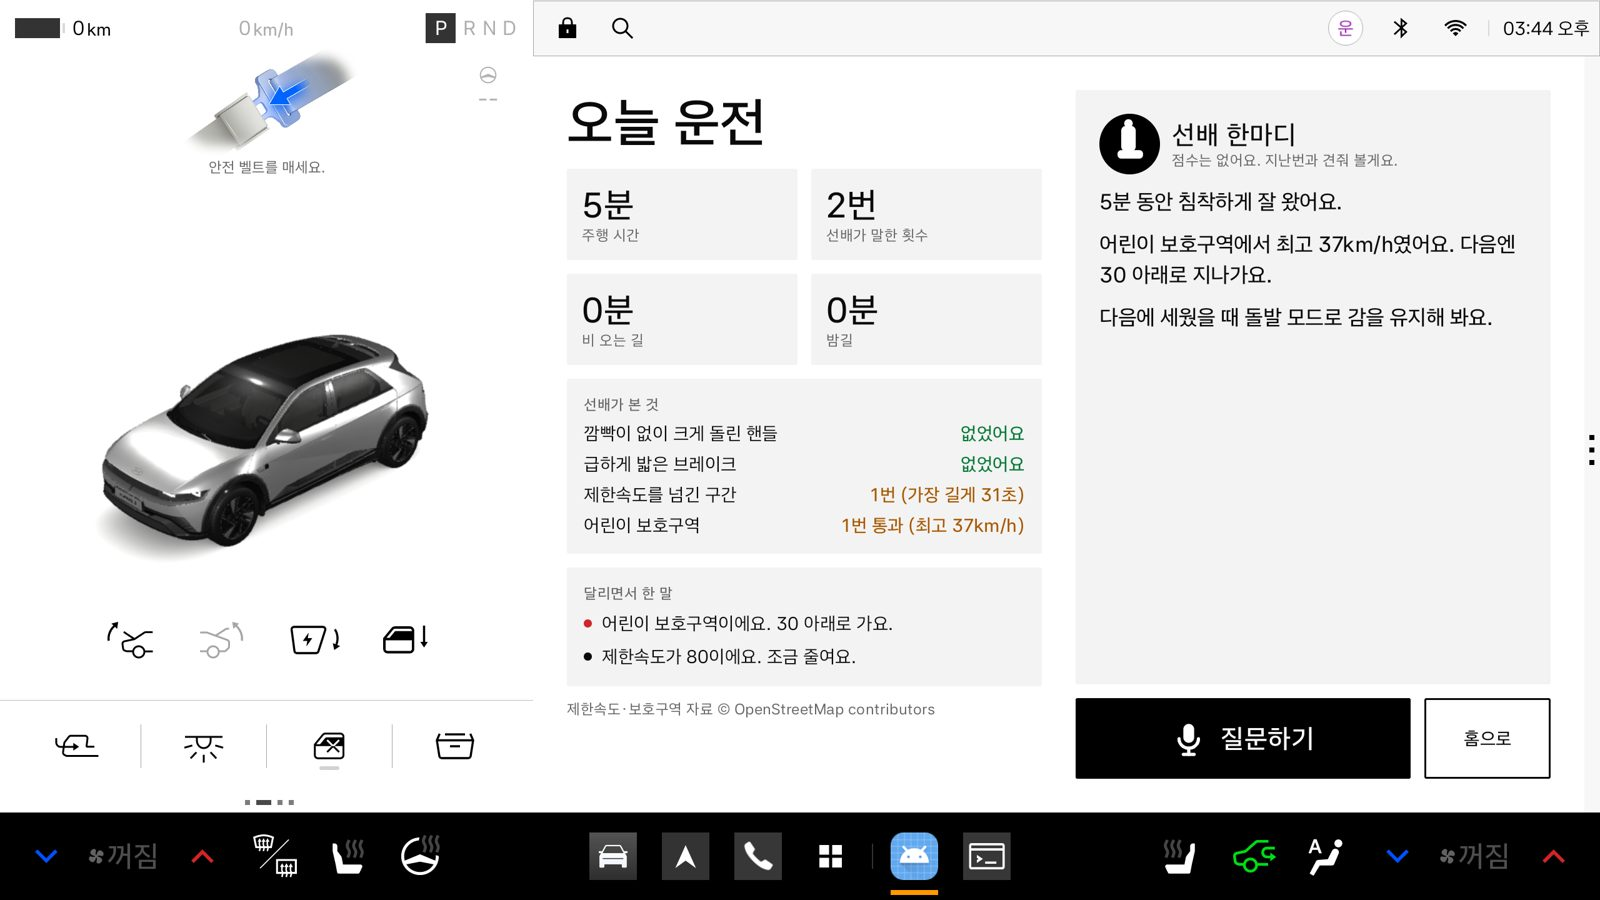
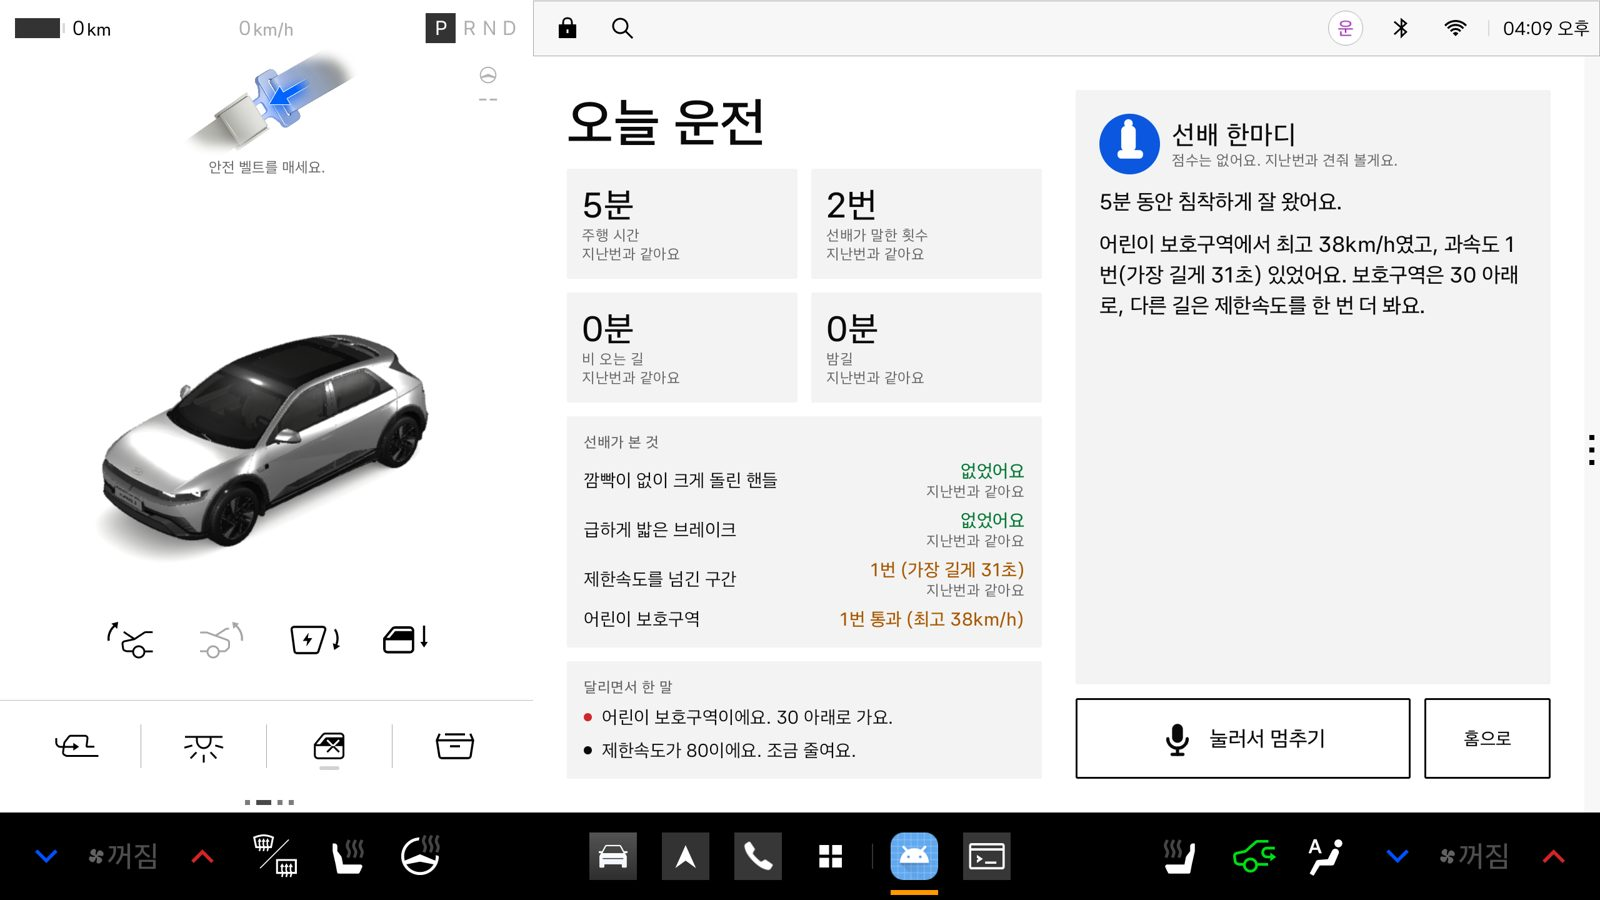
통합: 키 없는 release(db28383)로 시연 경로 재생, 규칙 기반 총평이 과속·보호구역을 같이 말함 확인(캡처 갱신), 보호구역 최고 속도 72 튐 1회 기록

diff --git a/docs/STATUS.md b/docs/STATUS.md
@@ -1,6 +1,6 @@
 # 진행 상황
 
-> **최종 빌드 (2026-11-13 16:05, dev-integration)**: 소스 기준 이 커밋(core 8773c3a 리뷰 과속 문장, ui 5db0efc 리뷰 과속·보호구역 줄과 OSM 출처, b5ceb33 K11·K12 연결 이후). `./gradlew :core:test` 91개·`:app:testDebugUnitTest` 108개 통과. `apk/MoodLab_SideSeat_release.apk` 23,040,246바이트(23.0 MB), LLM 키 없음(`sk-ant-` 0건), `assets/zones/` 두 파일 포함. release 스모크(새로 설치, 크래시 0): 홈 "오늘의 추천" → C1 폭우 ★3·김서림 ★3·급정거 ★1 → D단 코치 K01 → P단 규칙 기반 리뷰(첫 문장 1.6초) → 홈 → 금고 다이얼 8.0초. 시연 경로 재생(release): K11 경로 199초·K12 364초, 리뷰 요약 과속 1번 31초·보호구역 최고 37 km/h, 앱 CPU 평균 0.13 %. 에뮬레이터는 `-allow-host-audio -crash-report-mode never`.
+> **최종 빌드 (2026-11-13 16:05, dev-integration)**: 소스 기준 `db28383`(core 8773c3a 리뷰 과속 문장, ui 5db0efc 리뷰 과속·보호구역 줄과 OSM 출처, b5ceb33 K11·K12 연결 이후). `./gradlew :core:test` 91개·`:app:testDebugUnitTest` 108개 통과. `apk/MoodLab_SideSeat_release.apk` 23,040,246바이트(23.0 MB), LLM 키 없음(`sk-ant-` 0건), `assets/zones/` 두 파일 포함. release 스모크(새로 설치, 크래시 0): 홈 "오늘의 추천" → C1 폭우 ★3·김서림 ★3·급정거 ★1 → D단 코치 K01 → P단 규칙 기반 리뷰(첫 문장 1.6초) → 홈 → 금고 다이얼 8.0초. 시연 경로 재생(release, 키 없음): K11 경로 199초·K12 364초, 규칙 기반 총평이 과속 1번(31초)과 보호구역 최고 속도를 함께 말함(보호구역 최고 38 km/h, 4회 중 1회는 72 km/h로 튐 — 아래 K11·K12 절), 앱 CPU 평균 0.13 %. 에뮬레이터는 `-allow-host-audio -crash-report-mode never`.
 
 ## 옆자리(SideSeat) 통합 검증 — 완료 조건 장면 (2026-11-13, dev-integration)
 
@@ -148,6 +148,7 @@
 | 외부 조회 | 시연 지역은 미리 읽은 제한속도만 써서 Overpass 요청 없음(로그에 조회 없음) |
 
 - **리뷰 화면 보강 확인(ui 5db0efc + core 8773c3a, 16:00)**: 같은 경로를 다시 재생한 뒤 리뷰 "선배가 본 것"에 "제한속도를 넘긴 구간 1번 (가장 길게 31초)", "어린이 보호구역 1번 통과 (최고 37km/h)" 두 줄과 아래 "제한속도·보호구역 자료 © OpenStreetMap contributors"가 가로에서 스크롤 없이 보임(`v6_day_landscape_review_speeding_zone.jpg`). 규칙 기반 총평도 "어린이 보호구역에서 최고 37km/h였고, 과속도 1번(가장 길게 31초) 있었어요…"로 과속을 말함. 홈은 오른쪽 목록 맨 아래에 같은 출처 문구(`v6_day_landscape_home_bottom_osm_credit.jpg`). 디버그 패널 "제한속도" 키는 `onDebugChange`가 디버그 게이트웨이 상태를 통째로 바꾸므로(`g.update { s }`) 따로 연결할 것 없음. 앞의 `v6_day_landscape_review_llm.jpg`는 5db0efc 이전 빌드로 찍은 것.
+- **키 없는 release(db28383, core 8773c3a 포함)로 경로 재생 2회(16:00~16:10)**: 규칙 기반 총평 두 번째 문장이 "어린이 보호구역에서 최고 38km/h였고, 과속도 1번(가장 길게 31초) 있었어요. 보호구역은 30 아래로, 다른 길은 제한속도를 한 번 더 봐요."로 **과속과 보호구역을 같이 말함**(`v6_release_review_rule_based.jpg` 갱신). 다만 보호구역 최고 속도가 2회 중 1회 **72 km/h**(다른 회 38, 앞선 회들 37)로 나왔다. 호스트가 넣은 위치 간격은 0.99~1.01초로 고르므로 에뮬레이터 위치 전달에서 1초 몫을 건너뛰어 거리가 두 배로 잡힌 것으로 보인다(72 ≈ 36×2). vehicle 세션에 알림. 이 리뷰 화면은 "지난번과 같아요" 줄 때문에 출처 문구가 스크롤 아래에 있다.
 캡처: `v6_day_landscape_coach_k11.jpg`, `v6_day_landscape_coach_k12.jpg`, `v6_day_landscape_review_llm.jpg`, `v6_release_review_rule_based.jpg`. 남은 일: OSM(ODbL) "© OpenStreetMap contributors" 표시를 앱 화면 어딘가에 넣어야 함(ui 세션에 요청).
 
 ### FusedLocation이 에뮬레이터 위치 주입을 받는지 (2026-11-13 14:40, 디버그 실측 도구 `LocationProbe`)
